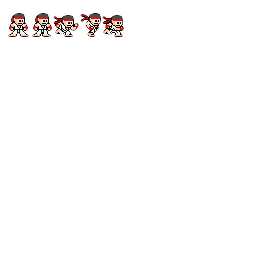
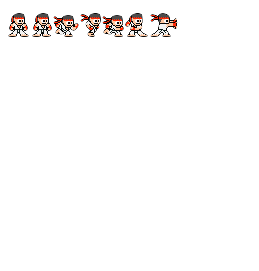
add hadooken movement to ryu sprite sheet

diff --git a/game/sprite_movement.js b/game/sprite_movement.js
@@ -3,12 +3,17 @@ var ryuMove;
 
 RyuMove.preload = function() {
 	game.load.spritesheet('ryuMove', 'assets/ryu/ryu_run.png', 25.5, 40);
+	game.load.image('blueHadoken', 'assets/ryu/blue_hadoken.png');
+	game.load.image('redHadoken', 'assets/ryu/red_hadoken.png');
 
 }
 
 RyuMove.create = function() {
 	ryuMove = game.add.sprite(32, game.world.height - 180, 'ryuMove');
 	game.physics.arcade.enable(ryuMove);
+	Hadokens = game.add.group();
+	Hadokens.enableBody = true;
+	ryuMove.anchor.setTo(.5,.5);
 
 	ryuMove.animations.add('run', [1, 2, 3, 4], 7, true); 
 	playerKeys = {
@@ -28,7 +33,7 @@ RyuMove.update = function() {
 		console.log('move up');
 	}
 	else if (playerKeys.a.isDown) {
-    	ryuMove.x -= 1;
+    	ryuMove.x -= 2;
     	ryuMove.scale.x = -1;
     	ryuMove.animations.play('run');
   	} 
@@ -42,8 +47,21 @@ RyuMove.update = function() {
   	}
   	else {
   		ryuMove.animations.stop();
-
   		ryuMove.frame = 0;
   	}
+  	if (playerKeys.h.isDown) {
+    var duration = playerKeys.h.duration;
+    playerKeys.h.onUp.add(function(key){
+      if (duration >= 500) {
+        duration = 0;
+        if (playerKeys.a.isDown) {
+          this.chuckHadoken(Hadokens, 'redHadoken', 'left');
+        }
+        else{
+          this.chuckHadoken(Hadokens, 'redHadoken', 'right');
+        }
+      }
+    }, this);
+  }
 
 }
